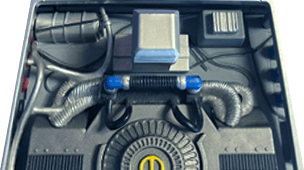
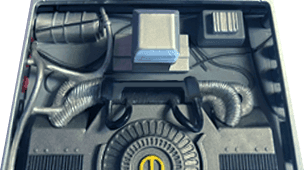
Mr. Fusion continues. Hexagonal pyramid mastered for the white base.

Changed region(s): [[0.3257, 0.4412, 0.6809, 0.6176], [0.4737, 0.9118, 0.5329, 1.0]]

diff --git a/src/scss/future.scss b/src/scss/future.scss
@@ -477,8 +477,8 @@ div#future {
     div#backBar {
       width: 92px;
       height: 20px;
-      top: 756px;
-      left: 50%;
+      top: 754px;
+      left: calc(50% - 1px);
       transform: translateZ(-240px) translateX(calc(-50% + 2px));
       div {
         background-image: url(../img/future/backBarFace.png);
@@ -500,6 +500,8 @@ div#future {
           transform: rotateX(90deg) rotateY(90deg);
           &#barSideOutLeft {
             left: 100%;
+            top: 15px;
+            transform: rotateX(90deg) rotateY(-90deg);
           }
           &.barSideIn {
             left: 15px;
@@ -574,6 +576,83 @@ div#future {
           height: 100%;
           background-image: url(../img/future/fusionBaseTop.png);
           transform: translateZ(-50px);
+        }
+      }
+      div#fusionBottomBlack {
+        width: 32px;
+        height: 32px;
+        margin: 26px;
+        transform: translateZ(-72px);
+        > div {
+          width: 100%;
+          height: 100%;
+          transform-origin: 50% 50%;
+          div {
+            width: 100%;
+            height: 100%;
+            background: linear-gradient(90deg, rgba(34,34,34,1) 0%, rgba(0,0,0,1) 20%, rgba(17,17,17,1) 80%, rgba(51,51,51,1) 100%);
+            transform: rotateX(90deg);
+            &:nth-child(2),
+            &:nth-child(3) {
+              background: linear-gradient(270deg, rgba(34,34,34,1) 0%, rgba(0,0,0,1) 20%, rgba(17,17,17,1) 80%, rgba(51,51,51,1) 100%);
+            }
+            &:nth-child(2),
+            &:nth-child(4) {
+              transform: rotateX(90deg) rotateY(90deg);
+            }
+            &:nth-child(3) {
+              top: 100%;
+            }
+            &:nth-child(4) {
+              left: 100%;
+            }
+          }
+          &:nth-child(2) {
+            transform: rotateZ(22.5deg);
+          }
+          &:nth-child(3) {
+            transform: rotateZ(45deg);
+          }
+          &:nth-child(4) {
+            transform: rotateZ(67.5deg);
+          }
+        }
+      }
+      div#fusionBottomWhite {
+        width: 36.37px;
+        height: 36.37px;
+        margin: 23.815px;
+        transform: translateZ(-72px);
+        > div {
+          width: 21px;
+          height: 100%;
+          left: 50%;
+          transform-origin: 50% 50%;
+          transform: translateX(-50%);
+          div {
+            background-image: url(../img/future/fusionBaseWhite.png);
+            width: 100%;
+            height: 50%;
+            &:first-child {
+              transform: rotateX(-30deg);
+            }
+            &:last-child {
+              top: 100%;
+              left: 100%;
+              transform: rotateZ(180deg) rotateX(-30deg);
+            }
+          }
+          &:nth-child(2) {
+            transform: translateX(-50%) rotateZ(60deg);
+          }
+          &:nth-child(3) {
+            transform: translateX(-50%) rotateZ(-60deg);
+          }
+        }
+      }
+      div#fusionBody {
+        div.fusionWideFace {
+          
         }
       }
     }

diff --git a/src/html/future.html b/src/html/future.html
@@ -98,15 +98,61 @@
     </div>
     <div id="mrFusion">
       <div id="fusionBase">
+        <div class="fusionBaseSide"></div>
+        <div class="fusionBaseSide"></div>
+        <div class="fusionBaseSide"></div>
+        <div class="fusionBaseSide"></div>
+        <div class="fusionBaseSide"></div>
+        <div class="fusionBaseSide"></div>
+        <div class="fusionBaseSide"></div>
+        <div class="fusionBaseSide"></div>
         <div id="fusionBaseTop"></div>
-        <div class="fusionBaseSide"></div>
-        <div class="fusionBaseSide"></div>
-        <div class="fusionBaseSide"></div>
-        <div class="fusionBaseSide"></div>
-        <div class="fusionBaseSide"></div>
-        <div class="fusionBaseSide"></div>
-        <div class="fusionBaseSide"></div>
-        <div class="fusionBaseSide"></div>
+      </div>
+      <div id="fusionBottomBlack">
+        <div>
+          <div></div>
+          <div></div>
+          <div></div>
+          <div></div>
+        </div>
+        <div>
+          <div></div>
+          <div></div>
+          <div></div>
+          <div></div>
+        </div>
+        <div>
+          <div></div>
+          <div></div>
+          <div></div>
+          <div></div>
+        </div>
+        <div>
+          <div></div>
+          <div></div>
+          <div></div>
+          <div></div>
+        </div>
+      </div>
+      <div id="fusionBottomWhite">
+        <div>
+          <div></div>
+          <div></div>
+        </div>
+        <div>
+          <div></div>
+          <div></div>
+        </div>
+        <div>
+          <div></div>
+          <div></div>
+        </div>
+      </div>
+      <div id="fusionBody">
+        <div id="fusionBodyFront" class="fusionNarrowFace"></div>
+        <div id="fusionBodyLeft" class="fusionWideFace"></div>
+        <div id="fusionBodyRight" class="fusionWideFace"></div>
+        <div id="fusionBodyBack" class="fusionNarrowFace"></div>
       </div>
     </div>
     <div id="spoilerLeft" class="spoiler">

diff --git a/src/js/scenes/scene-00.js b/src/js/scenes/scene-00.js
@@ -27,6 +27,7 @@ const setScene00 = (c, n) => {
       cursor: 'pointer',
     }, '>')
 
+  console.log(g.document.querySelector('#fusionBottomWhite > div > div').getBoundingClientRect())
   return true
 }
 
@@ -41,7 +42,7 @@ const spinTime = () => {
     duration: 20,
     ease: 'steps(25)',
     repeat: -1,
-    rotateX: -75,
+    rotateX: -60,
     yoyo: true,
   })
   gsap.to('#deLorean', {
